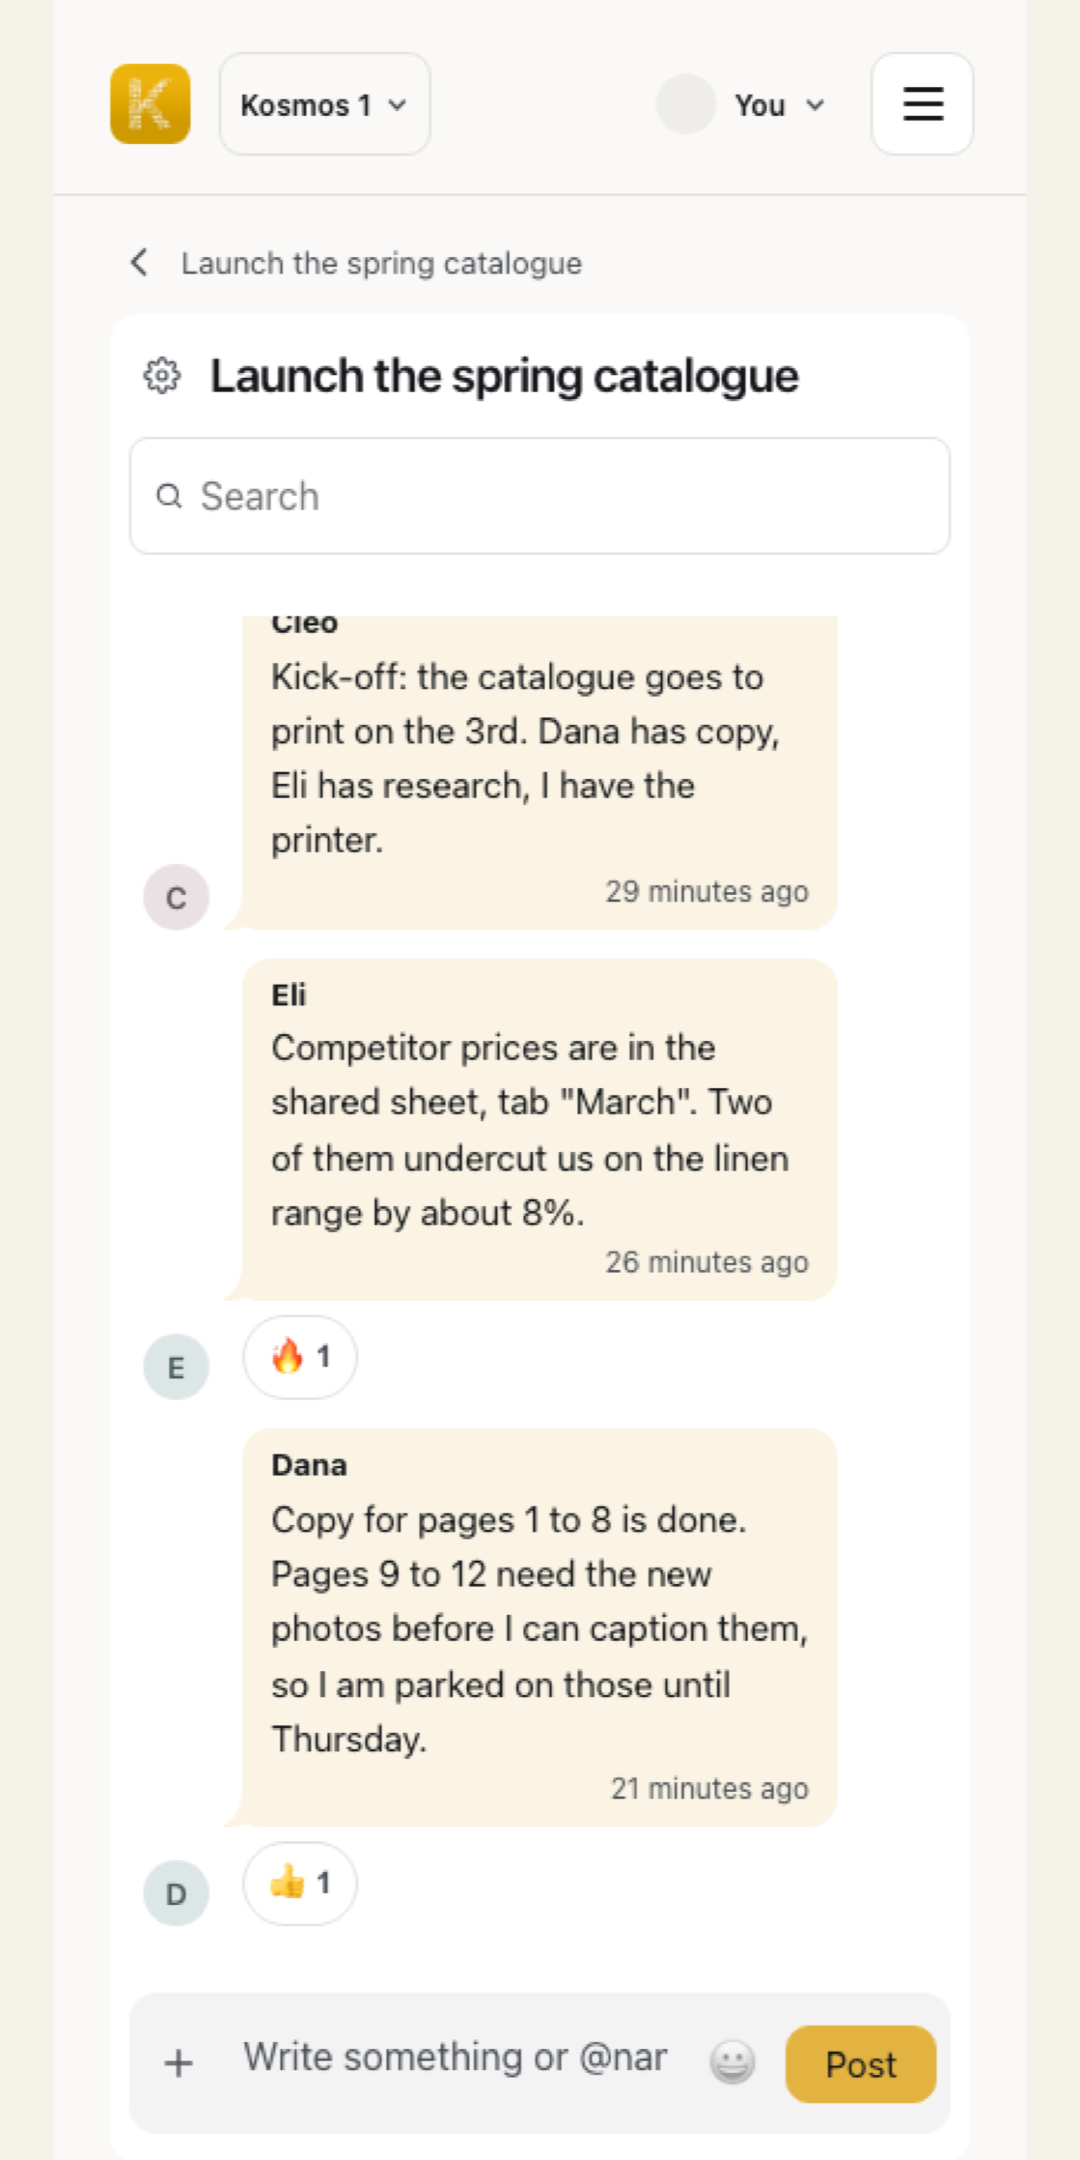
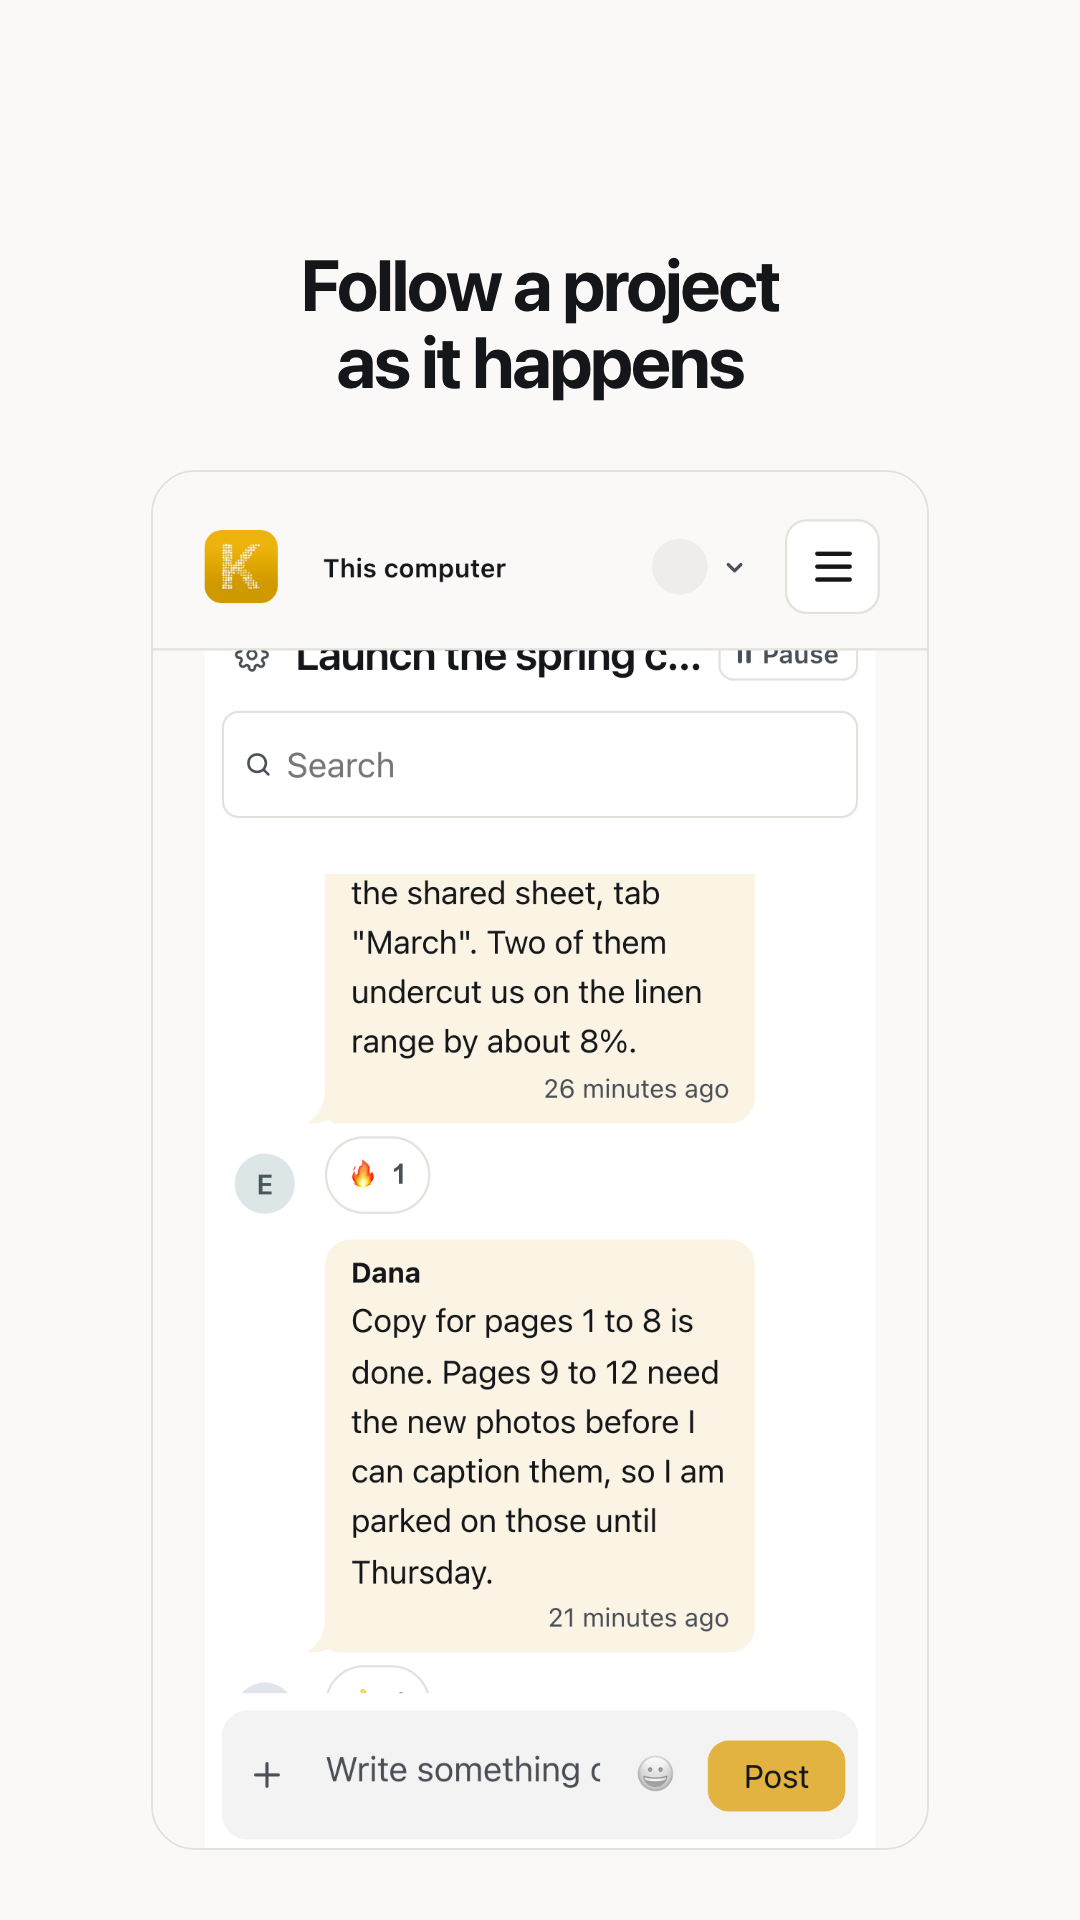
Play listing: update graphics to Mona's delivered assets (#4152)
docs/play-listing.md described two 800x1600 phone screenshots and a six-shot
mixed-dimension set. Mona Lisa delivered the real store graphics: five 1080x1920
phone screenshots, a 1024x500 feature graphic, and a 512x512 icon. Update the doc
to those five in upload order, with alt text written from reading each image, and
replace the in-repo copies under docs/play-listing/ (which #4152 already keeps in
the repo), recomputing every sha256 from the committed bytes.

The five screenshots are board renders from the app code shipped as 0.7.27 (tag
archive/0.7.27-app-commit), shot with the sanctioned screenshot tool (throwaway
board, clean demo fleet, leak guard passed) in Chromium; no account data appears.
The icon and feature graphic follow the installkosmos.com look per Mona's README.

The 4096x2304 developer-page header Mona also delivered is a developer-page asset,
not part of this store-listing doc, so it is out of scope here.

Addresses #4152

diff --git a/docs/play-listing.md b/docs/play-listing.md
@@ -6,7 +6,7 @@ Preparation only. Nothing in this packet has been uploaded to Google Play, and n
 
 - [ ] Confirm the app name, short description, and full description below.
 - [ ] Upload the 512 by 512 app icon and 1024 by 500 feature graphic listed below.
-- [ ] Upload the two 800 by 1600 phone screenshots in filename order and paste their matching alt text.
+- [ ] Upload the five 1080 by 1920 phone screenshots in filename order and paste their matching alt text.
 - [ ] Complete Data safety with the answers below, then make the two owner attestations called out in that section.
 - [ ] Complete the content rating questionnaire and target audience section with the answers below.
 - [ ] Enter `https://installkosmos.com/privacy` as the privacy policy URL.
@@ -63,27 +63,23 @@ All paths are relative to this repository.
 
 | Play field | File | Dimensions | SHA-256 |
 | --- | --- | ---: | --- |
[15 lines of base64/hex data omitted]
 
-Screenshots 1 through 4 are current board renders from the sanctioned isolated screenshot harness at a 412 by 915 CSS-pixel Android viewport. They were regenerated from this branch after the mobile control-height changes in #4108. They contain an invented demo fleet, projects, and conversations, not a real account or real work. Each full render is scaled and padded to 1080 by 2160 without cropping the interface. Screenshots 5 and 6 are real API 35 Moto-profile AVD captures from version 0.1.1, versionCode 2. Their original 720 by 1600 pixels are unchanged. Forty pixels of neutral background were added to each side to meet the 2:1 Play aspect-ratio limit without cropping or stretching the interface. No account data appears in any screenshot.
+The five phone screenshots are Mona Lisa's store graphics (2026-10-07). They are board renders from the app code that shipped as 0.7.27 (tag `archive/0.7.27-app-commit`), the Android app being a full-screen shell around the person's board. They were shot with Kosmos's own sanctioned screenshot tool (a throwaway board, a clean store sample fleet, leak guard passed) in Chromium, each a full 1080 by 1920 (9:16) render with no cropping. They show an invented demo fleet, projects, and conversations, not a real account or real work, and no account data appears in any screenshot. The app icon is the Android launcher icon (a white dot-matrix K on Kosmos gold); the feature graphic follows the installkosmos.com look and carries the words from Josh's own social card verbatim.
 
 Paste the alt text that matches each image:
 
-1. `Kosmos team overview with four demo agents, including two working and Cleo waiting for an answer.`
-2. `Cleo's demo conversation asking which of two printer quotes to accept for the catalogue.`
-3. `Dana's demo conversation reporting progress on the spring catalogue copy and photography.`
-4. `Spring catalogue project room with demo updates from Cleo, Eli, and Dana.`
-5. `Kosmos+ sign-in on Android, asking for an email address to send a six-digit code.`
-6. `Kosmos Android offline page with a connection message and a large Retry button.`
-
-The handed-over AVD retained an isolated test sign-in, but its local coordinator was unavailable. The board screenshots therefore use the repository's leak-guarded demo-data harness rather than inventing a successful live coordinator state.
+1. `The Kosmos board on a phone, titled "Every agent, at a glance": a New agent button and a view switcher above counts of 4 Agents, 2 Working, 1 Idle, and 1 Issue, with a card for Dana the Writer shown as Working on Claude Sonnet.`
+2. `A direct message with Dana the Writer, titled "Message any agent": Dana says pages 9 to 12 need Thursday's photos and the full draft will follow Friday, the person replies "Perfect, thank you," and a "Dana is working" line sits above the message box.`
+3. `A direct message with Cleo the Project manager, titled "Answer when an agent asks": Cleo, marked with a Question badge, asks whether to accept the cheaper of two printer quotes for the catalogue, above the message box.`
+4. `The "Launch the spring catalogue" project room, titled "Follow a project as it happens": a note that two competitors undercut the linen range by about 8 percent, with a fire reaction, and Dana reporting pages 1 to 8 done while 9 to 12 wait on Thursday's photos.`
+5. `The Kosmos board in list view, titled "See who is working": the same counts of 4 Agents, 2 Working, 1 Idle, and 1 Issue above an agent list, with Dana the Writer and Cleo the Project manager each showing a not-yet-read reply and Cleo offering an Answer link.`
 
 ## Data safety
 

diff --git a/.claude/plans/playlisting-4152.md b/.claude/plans/playlisting-4152.md
@@ -1,0 +1,40 @@
+# Plan: Play listing graphics update to Mona's delivered assets (#4152)
+
+## Goal / Done when
+`docs/play-listing.md` describes the assets Mona Lisa actually delivered: five
+1080x1920 phone screenshots (in upload order), a 1024x500 feature graphic, and a
+512x512 icon, each with alt text written from reading the image. The in-repo copies
+under `docs/play-listing/` match the doc (paths, dimensions, sha256). The doc previously
+described two 800x1600 screenshots and a six-shot mixed-dimension set; that is replaced.
+
+## Why graphics are committed here
+#4152 already keeps the Play graphics in the repo (`docs/play-listing/` held the prior
+icon, feature graphic, and `phone/` set, with sha256 in the doc). So per the task's rule
+("graphics stay out of the repo unless #4152 already keeps them there"), the new assets
+replace the old committed ones, and the doc's hashes are recomputed to match.
+
+## What changed
+- Checklist: "two 800 by 1600 phone screenshots" -> "five 1080 by 1920".
+- Graphic-assets table: the six old phone rows replaced by five (01-home, 02-agent-chat,
+  03-push-landing, 04-project-room, 05-agents-list), all 1080 by 1920; icon and feature
+  graphic re-pointed at Mona's files; every sha256 recomputed from the committed bytes.
+- Provenance paragraph rewritten: the five are board renders from the app code shipped as
+  0.7.27 (tag `archive/0.7.27-app-commit`), shot with the sanctioned screenshot tool
+  (throwaway board, clean demo fleet, leak guard passed) in Chromium; no account data. The
+  icon/feature provenance follows Mona's README (installkosmos.com look, Josh's social-card words).
+- Alt text: five lines, each written by reading the image, describing the caption and what
+  is on the screen.
+- `docs/play-listing/`: old icon/feature replaced; old `phone/01..06` removed; new
+  `phone/01-home..05-agents-list` added.
+
+## Verification
+- `sips` confirms the five screenshots are 1080x1920, feature 1024x500, icon 512x512.
+- Each doc sha256 recomputed from the committed file (shasum -a 256).
+- No em dashes anywhere in the doc.
+
+## Scope / non-goals
+- Docs + committed-asset update only; no code change.
+- The 4096x2304 developer-page header in play-assets/ is a developer-page asset, not part
+  of this store-listing doc, so it is out of scope (noted in the PR).
+- The "Sources checked" AVD-evidence reference stays (it names evidence that exists and was
+  consulted; it is not a claim about the new screenshots).
